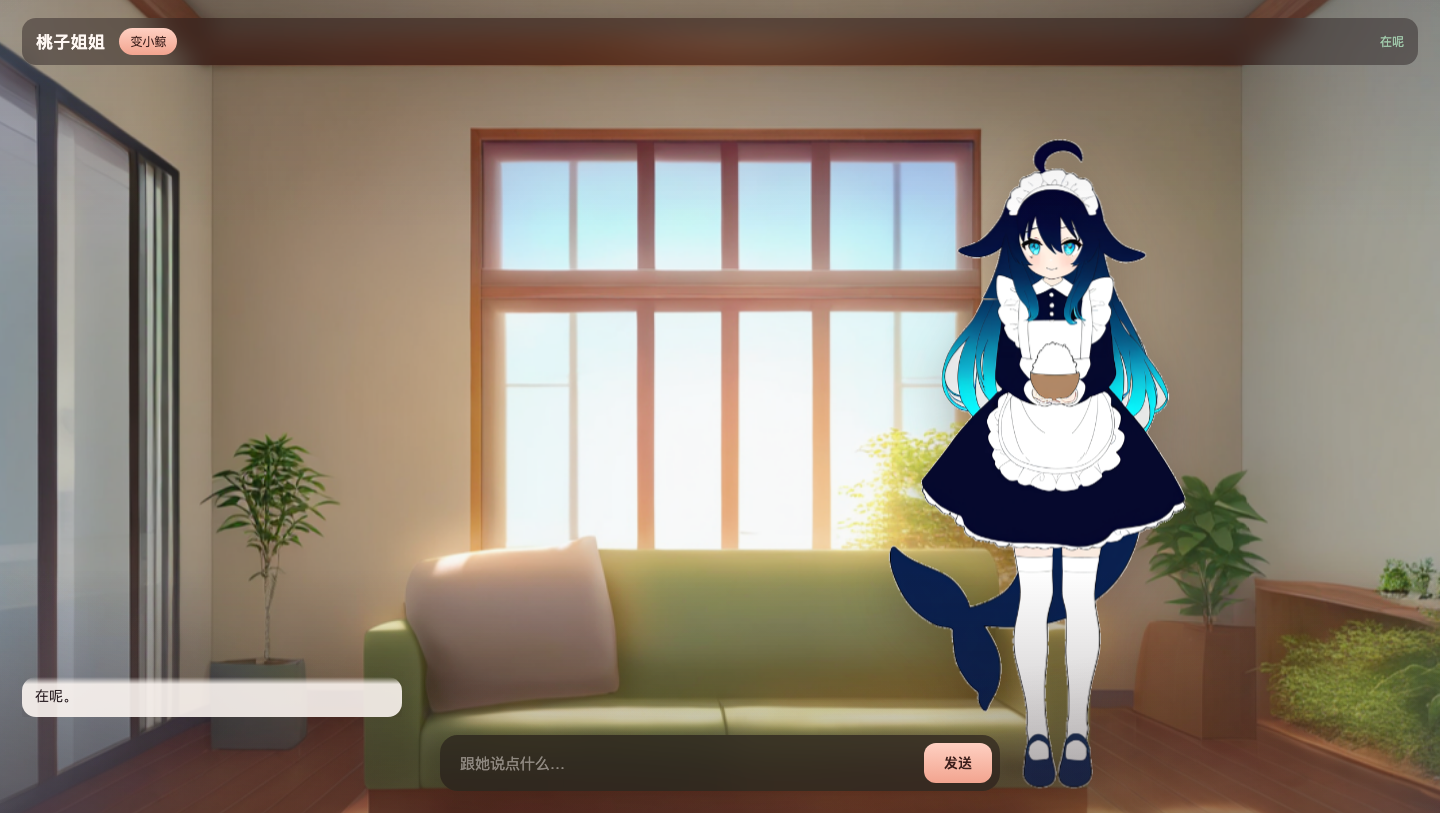
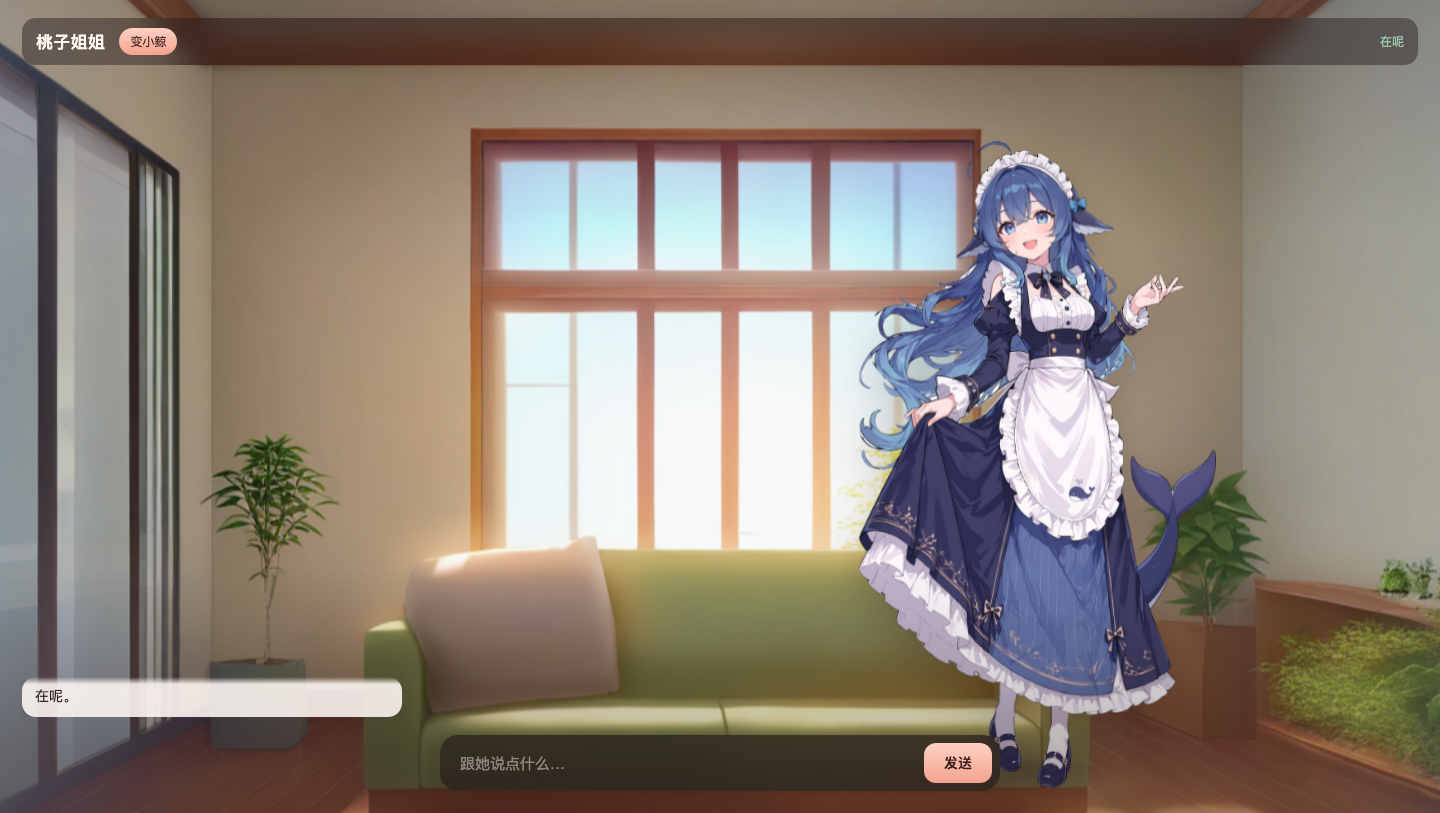
feat(live2d): use the community whale-maid artwork for the big form
- extract the user-provided community image from the chat attachment
- cut out with rembg isnet-anime (hair gaps and apron preserved)
- big form uses the original artwork: breathing, sway, drag, walk only
- chibi form keeps the generated, fully animated version
- add attribution/license notes: 溟月 (上善无形), maid ver. ZipZipPipe,
  CC BY-NC-SA 4.0, personal non-commercial only

Changed region(s): [[0.5938, 0.1538, 0.8438, 0.984]]

diff --git a/integrations/live2d/README.md b/integrations/live2d/README.md
@@ -79,8 +79,8 @@ live2d/
 
 ## 两种形态（可切换）
 
-- **大鲸 / 女仆**：全身，适合站在房间里
-- **小鲸 / chibi**：坐姿，适合桌面陪伴
+- **大鲸 / 女仆**：**社区原画**，站在房间里；只做呼吸/摆动/拖动，不拆头
+- **小鲸 / chibi**：本地生成的可爱版；眨眼、口型、点头、走路都能动
 
 右上角按钮切换，选择记在 `localStorage`。
 
@@ -91,14 +91,15 @@ assets/small/   chibi 分层 + manifest
 
 两套都支持眨眼、口型、呼吸、歪头、点地板走路、拖动。
 
-> 形象参考：鲸鱼娘「溟月」（上善无形，CC BY-NC-SA 4.0）与女仆二创（ZipZipPipe）。
-> 本项目只做个人非商用，沿用相同授权，需署名。
+> 形象：鲸鱼娘「溟月」（上善无形，CC BY-NC-SA 4.0）与女仆二创（ZipZipPipe）。
+> 大形态直接使用社区原画（`reference/community.jpg`），只做个人非商用，沿用相同授权并署名。
+> 详见 `reference/README.md`。
 
 ## 表情
 
 四套：`happy / sad / angry / shy`。
 
-- 目前只适用于旧的棕发角色；鲸鱼娘两套的专属表情还在重绘
+- 目前只适用于旧的棕发角色；鲸鱼娘的大形态不做拆层，小形态表情待补
 - 由 companion 服务返回的 `expression` 字段驱动
 - 点击她 → 短暂 happy
 - 表情层和口型层分开：说话时嘴仍然动，表情的眼睛还在

diff --git a/integrations/live2d/reference/README.md b/integrations/live2d/reference/README.md
@@ -1,0 +1,20 @@
+# 社区形象与授权
+
+## 角色来源
+
+- 原 OC「溟月」：上善无形，**CC BY-NC-SA 4.0**
+- 女仆鲸鱼娘二创：ZipZipPipe（在溟月基础上加入 DeepSeek 元素）
+- 本目录的 `community.jpg` 是社区二创图，用于个人非商用展示
+
+## 使用限制
+
+- **禁止商业使用**
+- 必须署名原作者
+- 衍生作品需沿用 **CC BY-NC-SA 4.0**
+- 不要声称为自己原创
+
+## 我们的处理
+
+- 大形态：直接使用社区原图抠图，保留原画质感
+- chibi 小形态：本地模型按同一设定重新生成
+- 两者都只用于本项目个人使用
